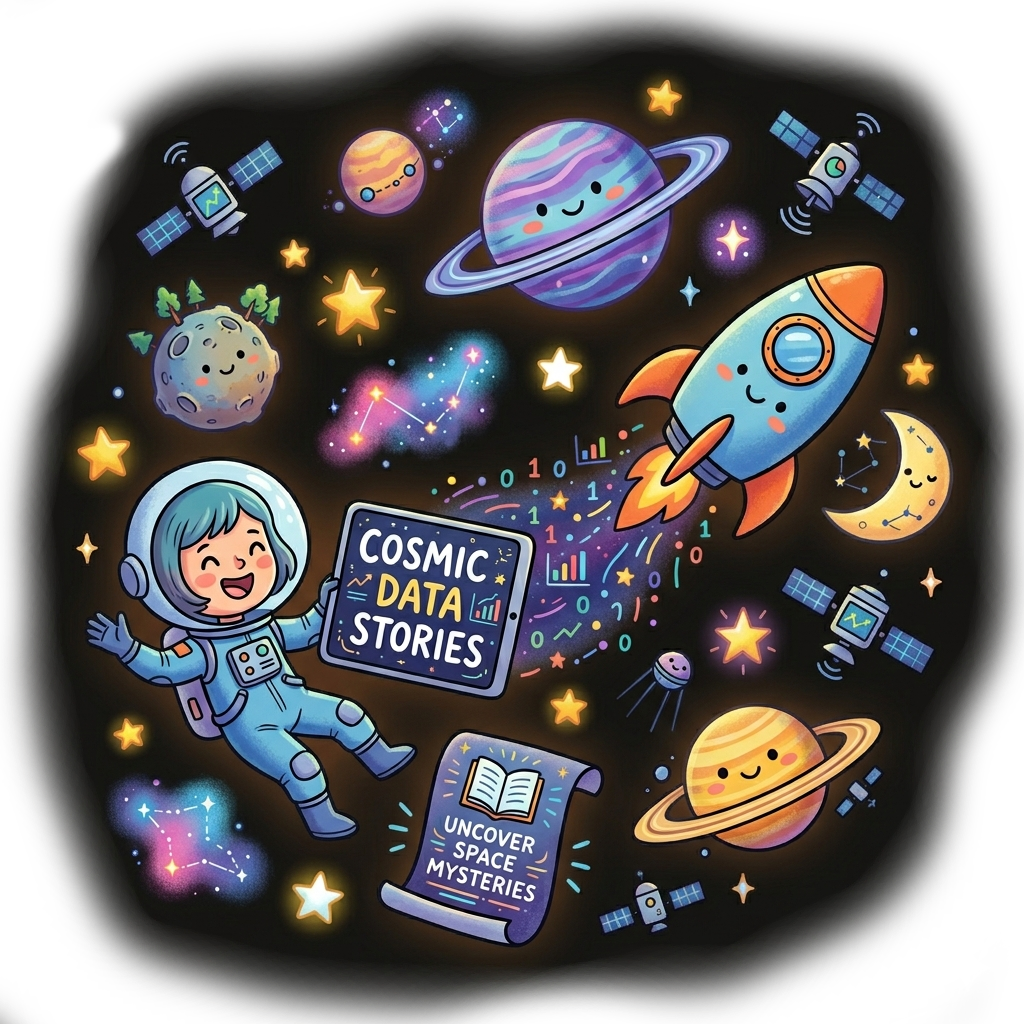
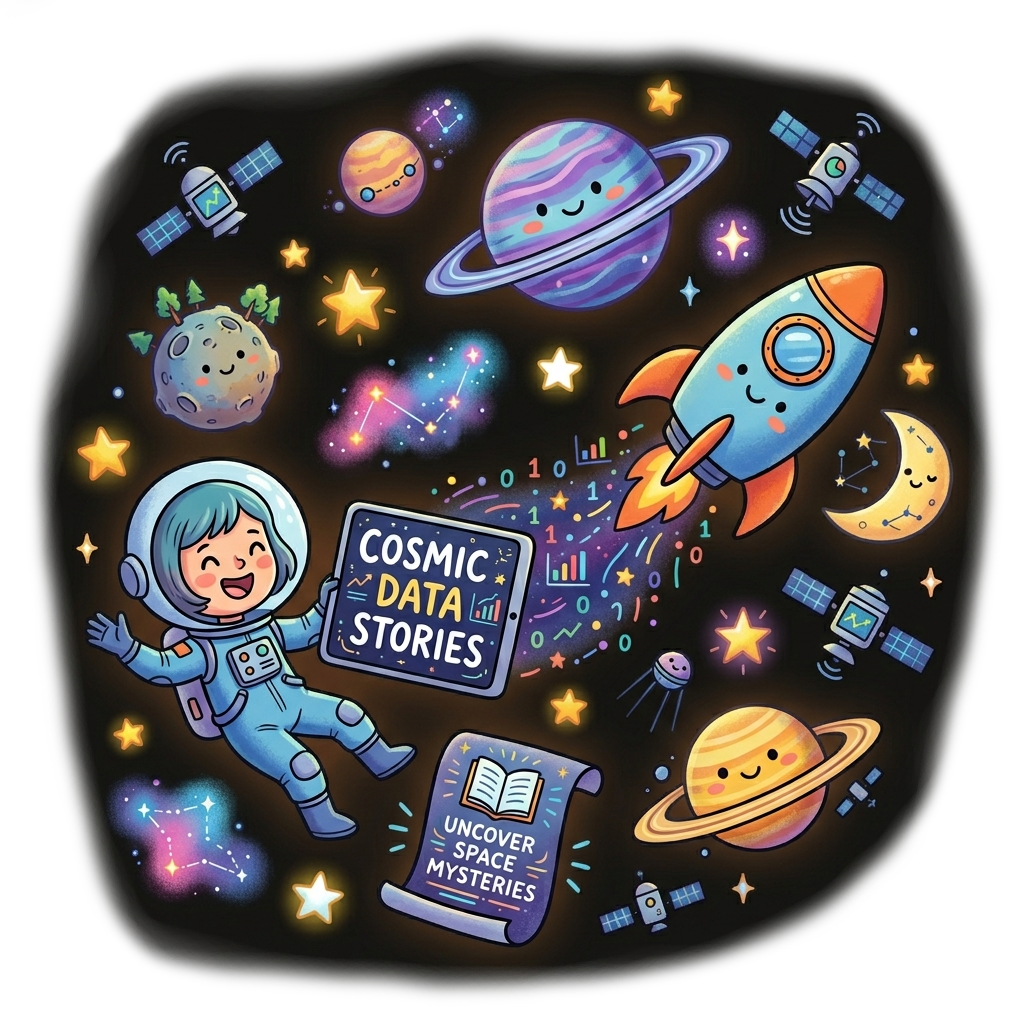
Improve educator overview cards

Changed region(s): [[0.0, 0.0, 1.0, 1.0], [0.0625, 0.2188, 0.0938, 0.2812], [0.0, 0.9688, 0.0312, 1.0]]

diff --git a/packages/cds-portal/src/cds_portal/components/class_card.py b/packages/cds-portal/src/cds_portal/components/class_card.py
@@ -3,6 +3,7 @@ from typing import Callable
 import reacton.ipyvuetify as rv
 import solara
 from pydantic import AwareDatetime
+from solara.lab import use_dark_effective
 
 
 def EducatorButtonList(
@@ -40,6 +41,7 @@ def ClassCard(
     expected_size: int,
     created: AwareDatetime,
     active: bool,
+    current_size: int | None = None,
     progress: float = 50.0,
     is_educator: bool = False,
     on_deactivate: Callable[[], None] | None = None,
@@ -76,7 +78,9 @@ def ClassCard(
                             children=[
                                 rv.Html(
                                     tag="div",
-                                    class_="d-inline-flex align-center mr-4",
+                                    class_="d-inline-flex align-center mr-4"
+                                    if not is_educator
+                                    else "",
                                     children=[
                                         rv.Icon(
                                             left=True,
@@ -84,7 +88,9 @@ def ClassCard(
                                             small=True,
                                         ),
                                         f"{educator_name}",
-                                    ],
+                                    ]
+                                    if not is_educator
+                                    else [],
                                 ),
                                 rv.Html(
                                     tag="div",
@@ -107,40 +113,39 @@ def ClassCard(
                                             children=["mdi-account-group"],
                                             small=True,
                                         ),
-                                        f"{expected_size}",
+                                        (
+                                            f"{current_size} / {expected_size}"
+                                            if current_size is not None
+                                            else f"{expected_size}"
+                                        ),
                                     ],
                                 ),
                             ]
                         )
 
                 with rv.CardText():
-                    class_code_field = rv.TextField(
-                        value=f"{class_code}",
-                        outlined=True,
-                        readonly=True,
-                        dense=True,
-                        style_="width:300px",
-                        solo=True,
-                        hide_details=True,
-                        append_icon="mdi-content-copy",
-                        v_slots=[
-                            {
-                                "name": "prepend-inner",
-                                "children": [
-                                    rv.Chip(
-                                        color="blue darken-4",
-                                        label=True,
-                                        class_="mr-4",
-                                        small=True,
-                                        children=["Class Code"],
-                                    )
-                                ],
-                            },
-                        ],
-                    )
+                    with rv.Row(class_="align-center ma-0 pa-0", no_gutters=True):
+                        class_code_chip = rv.Chip(
+                            color="primary darken-2"
+                            if use_dark_effective()
+                            else "primary lighten-2",
+                            label=True,
+                            class_="mr-2 py-5",
+                            children=["Class Code", rv.Icon(right=True, children=["mdi-content-copy"])],
+                        )
+                        class_code_field = rv.TextField(
+                            value=f"{class_code}",
+                            outlined=True,
+                            readonly=True,
+                            dense=True,
+                            style_="max-width:200px",
+                            solo=True,
+                            hide_details=True,
+                            # append_icon="mdi-content-copy"
+                        )
                     rv.use_event(
-                        class_code_field,
-                        "click:append",
+                        class_code_chip,
+                        "click",
                         lambda *_: print("COPY"),
                     )
 
@@ -160,7 +165,16 @@ def ClassCard(
         with rv.CardActions():
             rv.ProgressLinear(
                 value=progress,
-                v_slots=[{"name": "default", "children": [f"{progress:.1f}%"]}],
+                v_slots=[
+                    {
+                        "name": "default",
+                        "children": [
+                            ("Class Progress: "
+                            if is_educator
+                            else "Story Progress: ") + f"{progress:.1f}%"
+                        ],
+                    }
+                ],
                 height=20,
                 rounded=True,
             )

diff --git a/packages/cds-portal/src/cds_portal/pages/overview.py b/packages/cds-portal/src/cds_portal/pages/overview.py
@@ -18,6 +18,7 @@ def EducatorOverview():
 
     search_query = solara.use_reactive("")
     status_filter = solara.use_reactive(1)  # 0=All, 1=Active, 2=Inactive
+    sort_by = solara.use_reactive("Date")
 
     educator = portal_state.educator.value
     verified = educator is not None and educator.verified
@@ -57,8 +58,21 @@ def EducatorOverview():
                 ],
             )
 
+            rv.Select(
+                label="Sort by",
+                v_model=sort_by.value,
+                on_v_model=sort_by.set,
+                items=["Name", "Date", "Students"],
+                outlined=True,
+                dense=True,
+                hide_details=True,
+                class_="ml-2",
+                style_="max-width: 160px",
+            )
+
         educator_names = portal_state.class_educator_names.value
         class_progress = portal_state.class_progress.value
+        class_sizes = portal_state.class_sizes.value
         status = status_filter.value
 
         classrooms = [
@@ -77,6 +91,7 @@ def EducatorOverview():
                     educator_name=educator_names.get(classroom.id, ""),
                     class_code=classroom.code,
                     expected_size=classroom.expected_size,
+                    current_size=class_sizes.get(classroom.id),
                     created=classroom.created,
                     active=bool(classroom.active),
                     progress=class_progress.get(classroom.id, 0.0),
@@ -89,6 +104,14 @@ def EducatorOverview():
                 for value in filtered_classroom.values()
             )
         ]
+
+        sort_key = sort_by.value
+        if sort_key == "Name":
+            classrooms.sort(key=lambda c: (c["class_name"] or "").lower())
+        elif sort_key == "Date":
+            classrooms.sort(key=lambda c: (c["created"] is None, c["created"]), reverse=True)
+        elif sort_key == "Students":
+            classrooms.sort(key=lambda c: c["current_size"] or 0, reverse=True)
 
         for classroom in classrooms:
             code = classroom["class_code"]

diff --git a/packages/cds-portal/src/cds_portal/layout.py b/packages/cds-portal/src/cds_portal/layout.py
@@ -6,8 +6,9 @@ from cds_client import CDSClient, EducatorCreationInfo, StudentCreationInfo
 from cds_client.auth import hash_user
 from cds_client.cookies import verify_student_cookie
 from cds_core.components.location_helper.location_helper import LocationHelper
+from cds_core.components.theme_toggle import ThemeToggle
 from solara.alias import rv
-from solara.lab import cookies as solara_cookies
+from solara.lab import cookies as solara_cookies, use_dark_effective
 from solara_enterprise import auth
 
 from cds_portal.state import get_auth_state, get_portal_state, get_registration_pending
@@ -73,8 +74,10 @@ def _load_educator(portal, client, ref, educator):
 
     # Cumulative progress per class: completed stage states / (total_stages × roster size)
     progress = {}
+    sizes = {}
     for cls in classes:
         roster_size = client.classes.get_size(cls.id)
+        sizes[cls.id] = roster_size
         max_possible = total_stages * roster_size
         if max_possible > 0:
             completed = client.stories.count_class_stage_states(_STORY_NAME, cls.id)
@@ -82,6 +85,7 @@ def _load_educator(portal, client, ref, educator):
         else:
             progress[cls.id] = 0.0
     portal.class_progress = progress
+    portal.class_sizes = sizes
 
 
 def _create_oauth_account(portal, client, ref):
@@ -127,6 +131,7 @@ def _create_oauth_account(portal, client, ref):
 def Layout(children=[]):
     route_current, routes = solara.use_route()
     show_menu = solara.use_reactive(False)
+    dark_effective = use_dark_effective()
 
     # Still need to watch auth.user to detect the OAuth callback
     oauth_user = auth.user.use_value()
@@ -227,6 +232,8 @@ def Layout(children=[]):
 
                 rv.Spacer()
 
+                ThemeToggle(enable_auto=False, default_theme="dark")
+
                 if authenticated:
                     with rv.Menu(
                         bottom=True,
@@ -287,7 +294,8 @@ def Layout(children=[]):
             pass
 
         with rv.Footer(app=False, padless=True, class_="mt-4"):
-            with rv.Container(fluid=False, style_="border-top: 1px solid #424242"):
+            border = "border-top: 1px solid #424242" if dark_effective else ""
+            with rv.Container(fluid=False, style_=border):
                 with rv.Row(justify="space-between"):
                     with rv.Col(cols=12, md=6):
                         # rv.Sheet(class_="pa-12", color="grey lighten-2")

diff --git a/packages/cds-portal/src/cds_portal/state.py b/packages/cds-portal/src/cds_portal/state.py
@@ -38,6 +38,7 @@ class PortalState(BaseState):
 
     class_educator_names: dict[int, str] = StateField(default_factory=dict)
     class_progress: dict[int, float] = StateField(default_factory=dict)
+    class_sizes: dict[int, int] = StateField(default_factory=dict)
 
 
 def get_auth_state() -> AuthState: